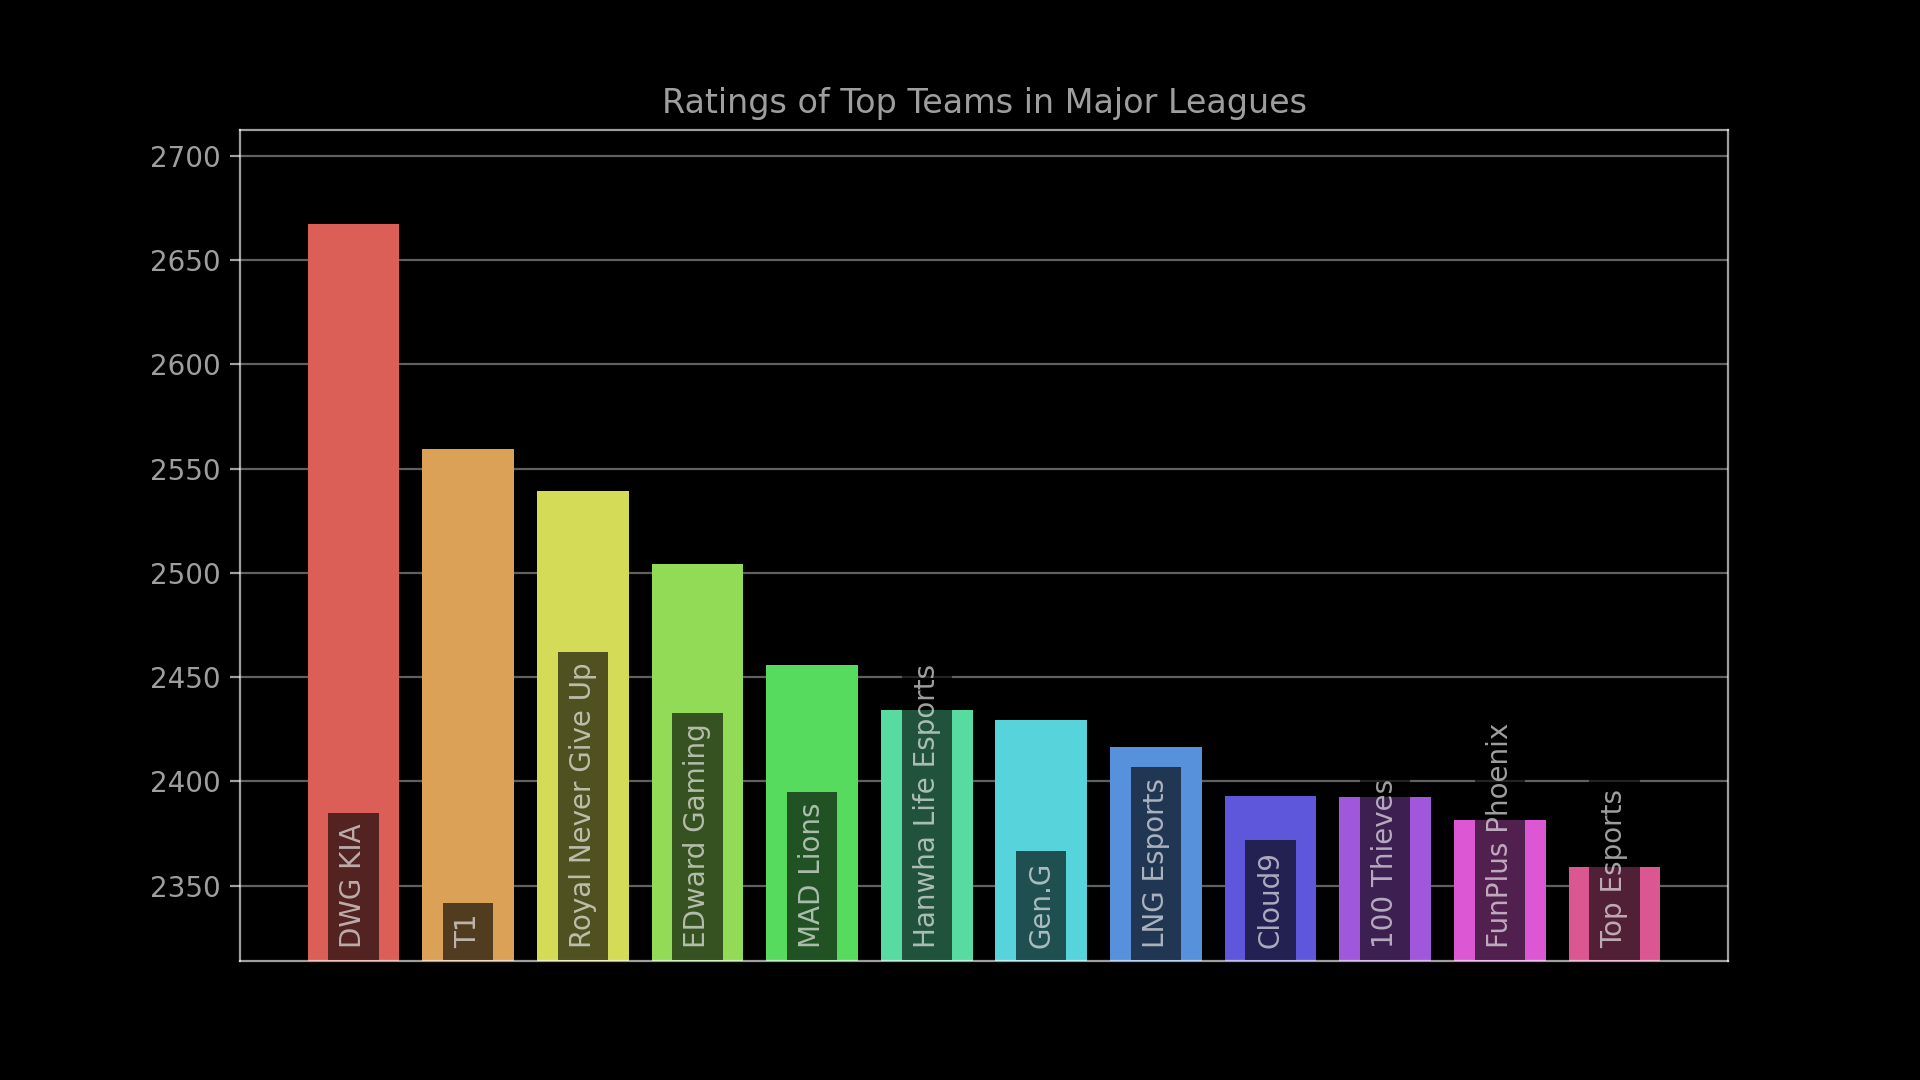
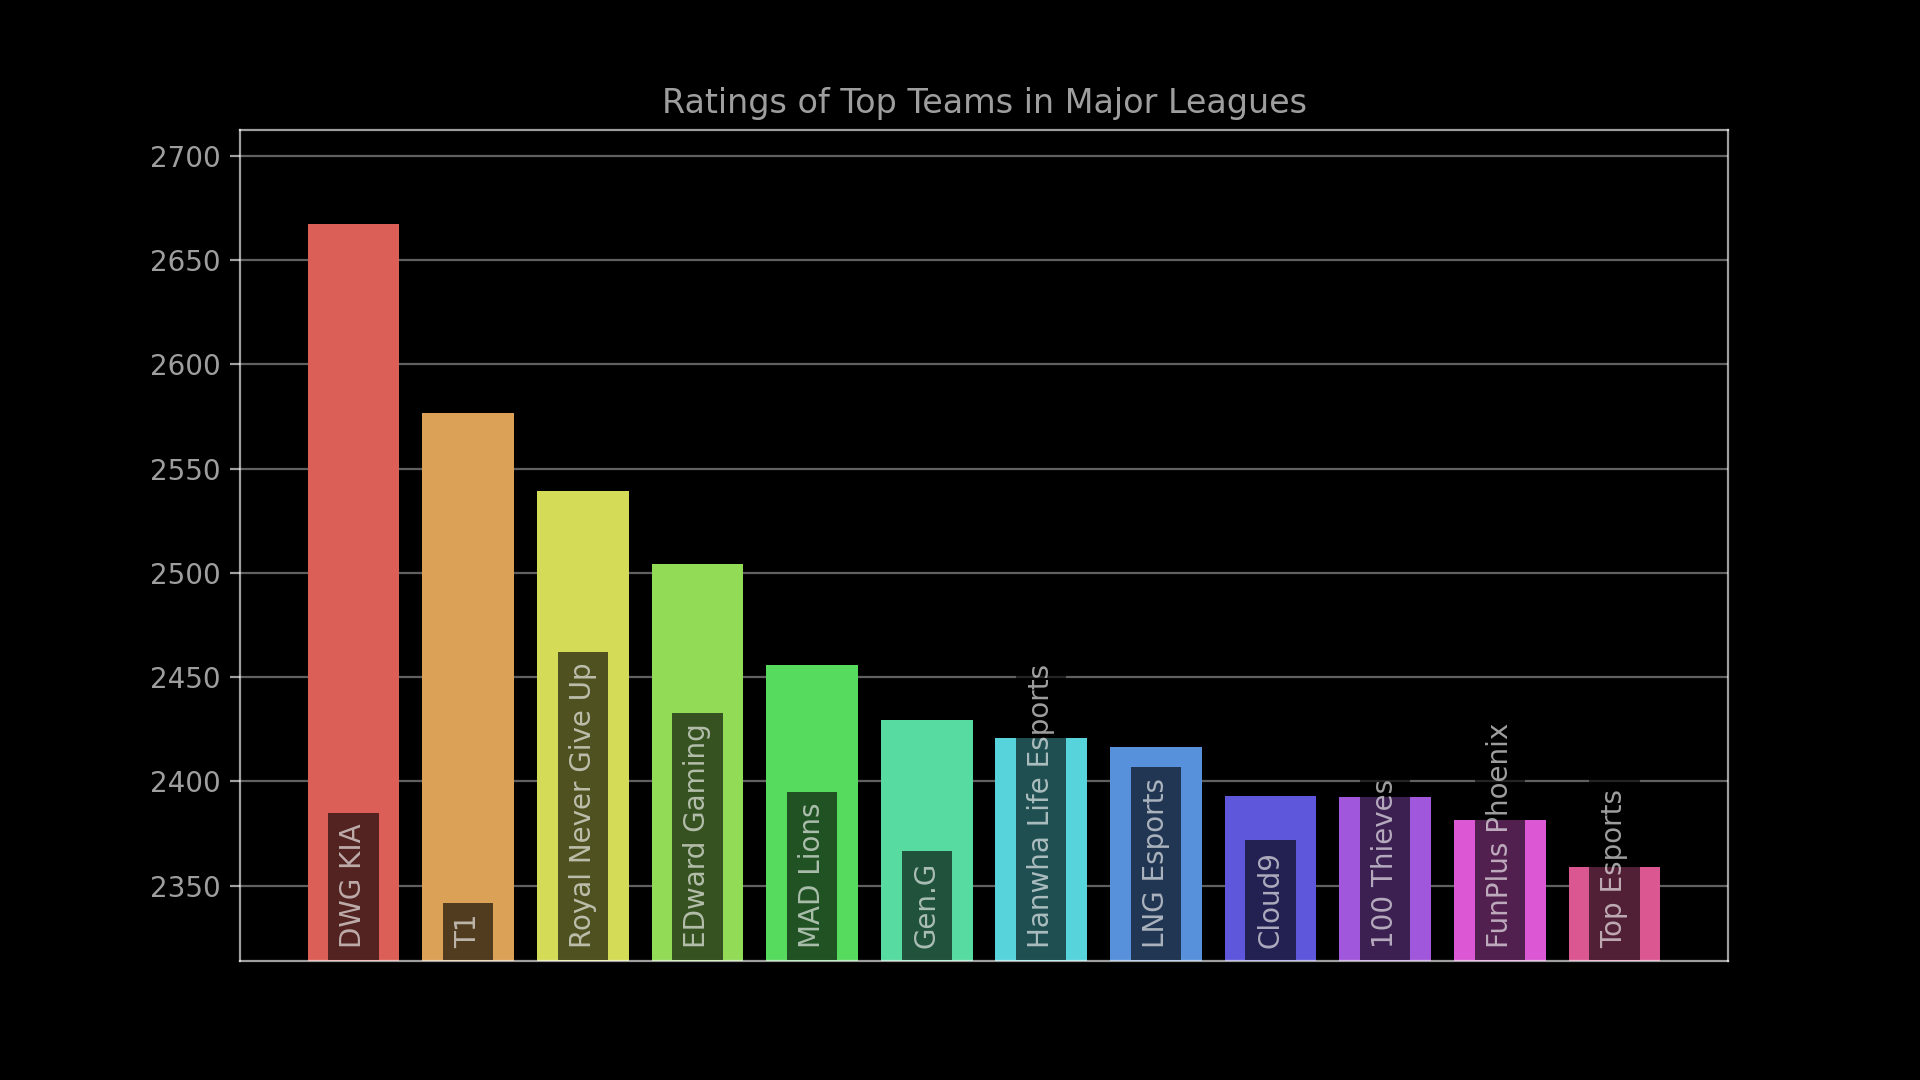
Update rating charts for 2021-10-22 16:00:00.

Changed region(s): [[0.4688, 0.6111, 0.5625, 0.8861], [0.2188, 0.3667, 0.2812, 0.4278]]

diff --git a/index.html b/index.html
@@ -76,16 +76,16 @@
             </tr>
             </thead>
             <tbody class="list">
-                <tr><td style="text-align: right">1</td><td class="name">DWG KIA</td><td class="league" style="text-align: center">LCK</td><td class="rating" style="text-align: center">2667.5</td><td class="diff" style="text-align: center; white-space: nowrap"><span style="color: #4CAF50">&plus;6.0</span></td></tr>
-            <tr><td style="text-align: right">2</td><td class="name">T1</td><td class="league" style="text-align: center">LCK</td><td class="rating" style="text-align: center">2559.5</td><td class="diff" style="text-align: center; white-space: nowrap"><span style="color: #4CAF50">&plus;111.2</span></td></tr>
+                <tr><td style="text-align: right">1</td><td class="name">DWG KIA</td><td class="league" style="text-align: center">LCK</td><td class="rating" style="text-align: center">2667.5</td><td class="diff" style="text-align: center; white-space: nowrap"></td></tr>
+            <tr><td style="text-align: right">2</td><td class="name">T1</td><td class="league" style="text-align: center">LCK</td><td class="rating" style="text-align: center">2576.6</td><td class="diff" style="text-align: center; white-space: nowrap"><span style="color: #4CAF50">&plus;128.4</span></td></tr>
             <tr><td style="text-align: right">3</td><td class="name">Royal Never Give Up</td><td class="league" style="text-align: center">LPL</td><td class="rating" style="text-align: center">2539.1</td><td class="diff" style="text-align: center; white-space: nowrap"><span style="color: #F44336">&minus;16.4</span></td></tr>
             <tr><td style="text-align: right">4</td><td class="name">EDward Gaming</td><td class="league" style="text-align: center">LPL</td><td class="rating" style="text-align: center">2504.1</td><td class="diff" style="text-align: center; white-space: nowrap"><span style="color: #F44336">&minus;88.4</span></td></tr>
             <tr><td style="text-align: right">5</td><td class="name">PSG Talon</td><td class="league" style="text-align: center">PCS</td><td class="rating" style="text-align: center">2461.9</td><td class="diff" style="text-align: center; white-space: nowrap"><span style="color: #F44336">&minus;32.7</span></td></tr>
             <tr><td style="text-align: right">6</td><td class="name">MAD Lions</td><td class="league" style="text-align: center">LEC</td><td class="rating" style="text-align: center">2455.7</td><td class="diff" style="text-align: center; white-space: nowrap"><span style="color: #4CAF50">&plus;41.8</span></td></tr>
-            <tr><td style="text-align: right">7</td><td class="name">Hanwha Life Esports</td><td class="league" style="text-align: center">LCK</td><td class="rating" style="text-align: center">2434.2</td><td class="diff" style="text-align: center; white-space: nowrap"><span style="color: #4CAF50">&plus;3.8</span></td></tr>
-            <tr><td style="text-align: right">8</td><td class="name">Gen.G</td><td class="league" style="text-align: center">LCK</td><td class="rating" style="text-align: center">2429.3</td><td class="diff" style="text-align: center; white-space: nowrap"><span style="color: #4CAF50">&plus;11.3</span></td></tr>
+            <tr><td style="text-align: right">7</td><td class="name">Gen.G</td><td class="league" style="text-align: center">LCK</td><td class="rating" style="text-align: center">2429.3</td><td class="diff" style="text-align: center; white-space: nowrap"><span style="color: #4CAF50">&plus;11.3</span></td></tr>
+            <tr><td style="text-align: right">8</td><td class="name">Hanwha Life Esports</td><td class="league" style="text-align: center">LCK</td><td class="rating" style="text-align: center">2421.0</td><td class="diff" style="text-align: center; white-space: nowrap"><span style="color: #F44336">&minus;9.5</span></td></tr>
             <tr><td style="text-align: right">9</td><td class="name">LNG Esports</td><td class="league" style="text-align: center">LPL</td><td class="rating" style="text-align: center">2416.7</td><td class="diff" style="text-align: center; white-space: nowrap"><span style="color: #F44336">&minus;43.2</span></td></tr>
-            <tr><td style="text-align: right">10</td><td class="name">Cloud9</td><td class="league" style="text-align: center">LCS</td><td class="rating" style="text-align: center">2392.9</td><td class="diff" style="text-align: center; white-space: nowrap"><span style="color: #4CAF50">&plus;15.4</span></td></tr>
+            <tr><td style="text-align: right">10</td><td class="name">Cloud9</td><td class="league" style="text-align: center">LCS</td><td class="rating" style="text-align: center">2392.9</td><td class="diff" style="text-align: center; white-space: nowrap"><span style="color: #4CAF50">&plus;9.1</span></td></tr>
             <tr><td style="text-align: right">11</td><td class="name">100 Thieves</td><td class="league" style="text-align: center">LCS</td><td class="rating" style="text-align: center">2392.5</td><td class="diff" style="text-align: center; white-space: nowrap"><span style="color: #4CAF50">&plus;62.4</span></td></tr>
             <tr><td style="text-align: right">12</td><td class="name">FunPlus Phoenix</td><td class="league" style="text-align: center">LPL</td><td class="rating" style="text-align: center">2381.7</td><td class="diff" style="text-align: center; white-space: nowrap"><span style="color: #F44336">&minus;17.1</span></td></tr>
             <tr><td style="text-align: right">13</td><td class="name">Top Esports</td><td class="league" style="text-align: center">LPL</td><td class="rating" style="text-align: center">2358.8</td><td class="diff" style="text-align: center; white-space: nowrap"></td></tr>

diff --git a/assets/js/chart-config.js b/assets/js/chart-config.js
@@ -3,10 +3,10 @@ const MONTH_ABBREVIATIONS = ["Jan", "Feb", "Mar", "Apr", "May", "Jun", "Jul", "A
 const topChartConfig = {
     type: "bar",
     data: {
-        labels: ['DWG KIA', 'T1', 'Royal Never Give Up', 'EDward Gaming', 'MAD Lions', 'Hanwha Life Esports', 'Gen.G', 'LNG Esports', 'Cloud9', '100 Thieves', 'FunPlus Phoenix', 'Top Esports'],
+        labels: ['DWG KIA', 'T1', 'Royal Never Give Up', 'EDward Gaming', 'MAD Lions', 'Gen.G', 'Hanwha Life Esports', 'LNG Esports', 'Cloud9', '100 Thieves', 'FunPlus Phoenix', 'Top Esports'],
         datasets: [{
             backgroundColor: ['#dc5f57', '#dca157', '#d4dc57', '#91dc57', '#57dc5f', '#57dca1', '#57d4dc', '#5791dc', '#5f57dc', '#a157dc', '#dc57d4', '#dc5791'],
-            data: [2667.475752135994, 2559.4757886125244, 2539.102646002875, 2504.142926627319, 2455.747064979238, 2434.221535288618, 2429.349371680531, 2416.7170819264643, 2392.8668374178997, 2392.5403855259237, 2381.7010883286844, 2358.8275642289427],
+            data: [2667.475752135994, 2576.62599757894, 2539.102646002875, 2504.142926627319, 2455.747064979238, 2429.349371680531, 2421.000902777424, 2416.7170819264643, 2392.8668374178997, 2392.5403855259237, 2381.7010883286844, 2358.8275642289427],
             label: "Rating Points"
         }]
     },

diff --git a/README.md b/README.md
@@ -46,12 +46,12 @@ confidence interval of the rating.
 | | Team | Rating | RD |
 | --: | --- | :-: | :-: |
 | 1 | DWG KIA | 2667.5 | 80.3 |
-| 2 | T1 | 2559.5 | 71.5 |
+| 2 | T1 | 2576.6 | 69.1 |
 | 3 | Royal Never Give Up | 2539.1 | 74.9 |
 | 4 | EDward Gaming | 2504.1 | 76.2 |
 | 5 | MAD Lions | 2455.7 | 70.4 |
-| 6 | Hanwha Life Esports | 2434.2 | 61.7 |
-| 7 | Gen.G | 2429.3 | 69.8 |
+| 6 | Gen.G | 2429.3 | 69.8 |
+| 7 | Hanwha Life Esports | 2421.0 | 60.1 |
 | 8 | LNG Esports | 2416.7 | 65.4 |
 | 9 | Cloud9 | 2392.9 | 60.3 |
 | 10 | 100 Thieves | 2392.5 | 74.4 |
